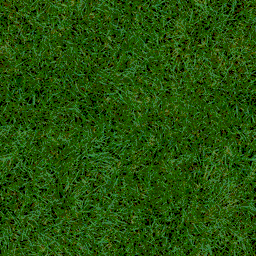
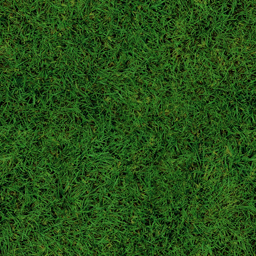
improved texture res

diff --git a/BTH COMP GRAPHICS/src/terrain.cpp b/BTH COMP GRAPHICS/src/terrain.cpp
@@ -21,7 +21,7 @@ terrain::terrain(float x, float y, float z)
     , height_offset(y)
 {
 	auto* begin =
-        stbi_load("images/heightmap.jpg", &width, &height, &channels, 1);
+        stbi_load("images/heightmap.png", &width, &height, &channels, 1);
     auto* end = begin + width * height;
     heights.resize(end - begin);
     std::copy(begin, end, heights.begin());
@@ -31,8 +31,8 @@ terrain::terrain(float x, float y, float z)
 	for (auto i = 0u; i < vertices.size(); ++i)
 	{
         glm::vec2 v{i % width, i / height};
-        vertices[i].position = {v.x, heights[i], v.y};
-        vertices[i].texture = {v.x / width, v.y / height};
+        vertices[i].position = {v.x, heights[i] * 0.1f, v.y};
+        vertices[i].texture = {v.x/4, v.y/4};
 	}
 
 	std::vector<glm::vec3> normals(heights.size());
@@ -135,7 +135,7 @@ glm::vec3 terrain::calculate_camera_position(
     {
         glm::ivec2 v{position.x, position.z};
         int i = v.x + v.y * width;
-        return {world_position.x, heights[i] +
+        return {world_position.x, heights[i] * 0.1f +
             height_offset + position_offset, world_position.z};
     }
 
@@ -153,7 +153,7 @@ void terrain::render_current(const shader& shader,
 {
 	shader.uniform("model", world_transform);
 	grass.uniform(shader, "diffuse", 0);
-	grass_rock.uniform(shader, "diffuse2", 1);
+	slope.uniform(shader, "diffuse2", 1);
 	rock.uniform(shader, "diffuse3", 2);
 	terrain_array.bind();
 	glDrawElements(GL_TRIANGLES, draw_count, GL_UNSIGNED_INT, 0);

diff --git a/BTH COMP GRAPHICS/include/terrain.hpp b/BTH COMP GRAPHICS/include/terrain.hpp
@@ -28,11 +28,11 @@ private:
 	buffer terrain_vbo;
 	buffer terrain_ebo{target::ELEMENT_ARRAY_BUFFER};
 	texture grass{"images/grass.png",
-        wrap::REPEAT, filter::LINEAR, format::RGB};
-	texture grass_rock{"images/grass_rock.png",
-        wrap::REPEAT, filter::LINEAR, format::RGB};
+        wrap::REPEAT, filter::LINEAR, format::RGBA};
+	texture slope{"images/slope.png",
+        wrap::REPEAT, filter::LINEAR, format::RGBA};
 	texture rock{"images/rock.png",
-        wrap::REPEAT, filter::LINEAR, format::RGB};
+        wrap::REPEAT, filter::LINEAR, format::RGBA};
 
 	int width = 0;
 	int height = 0;
